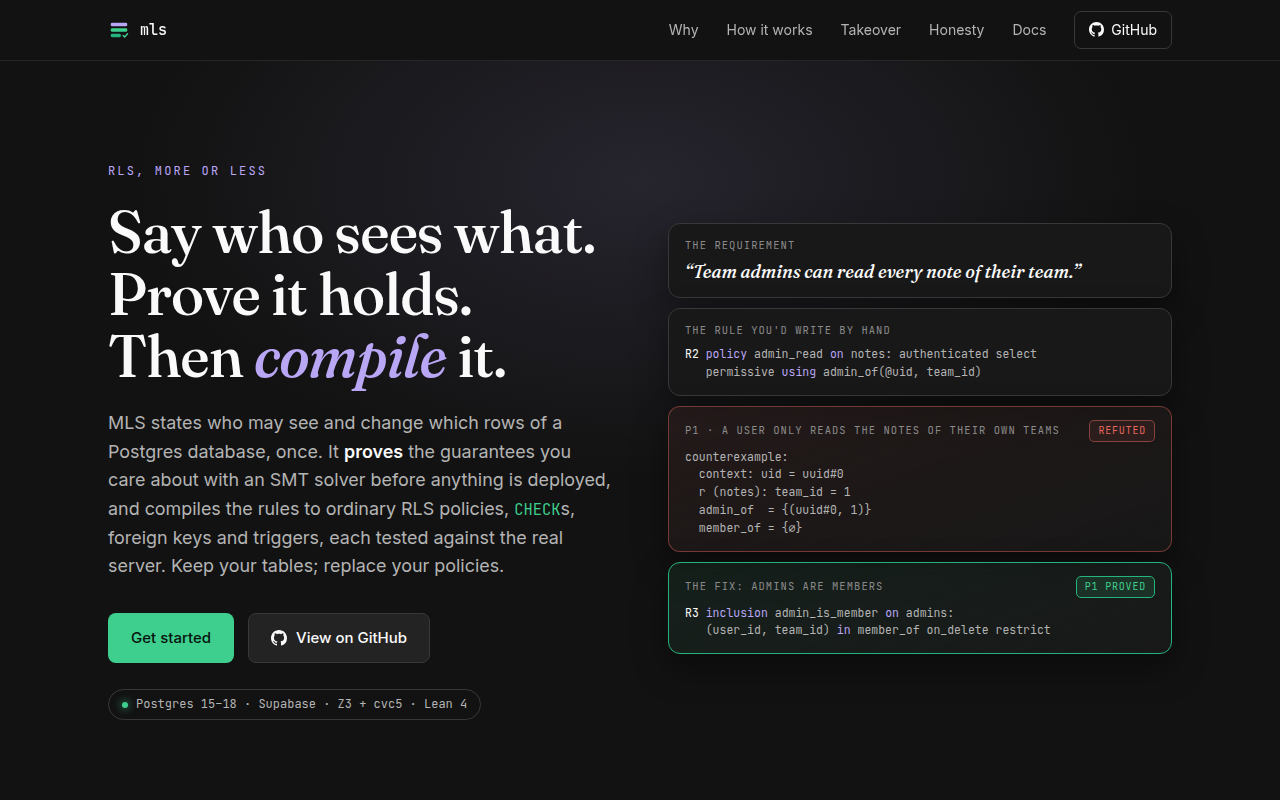
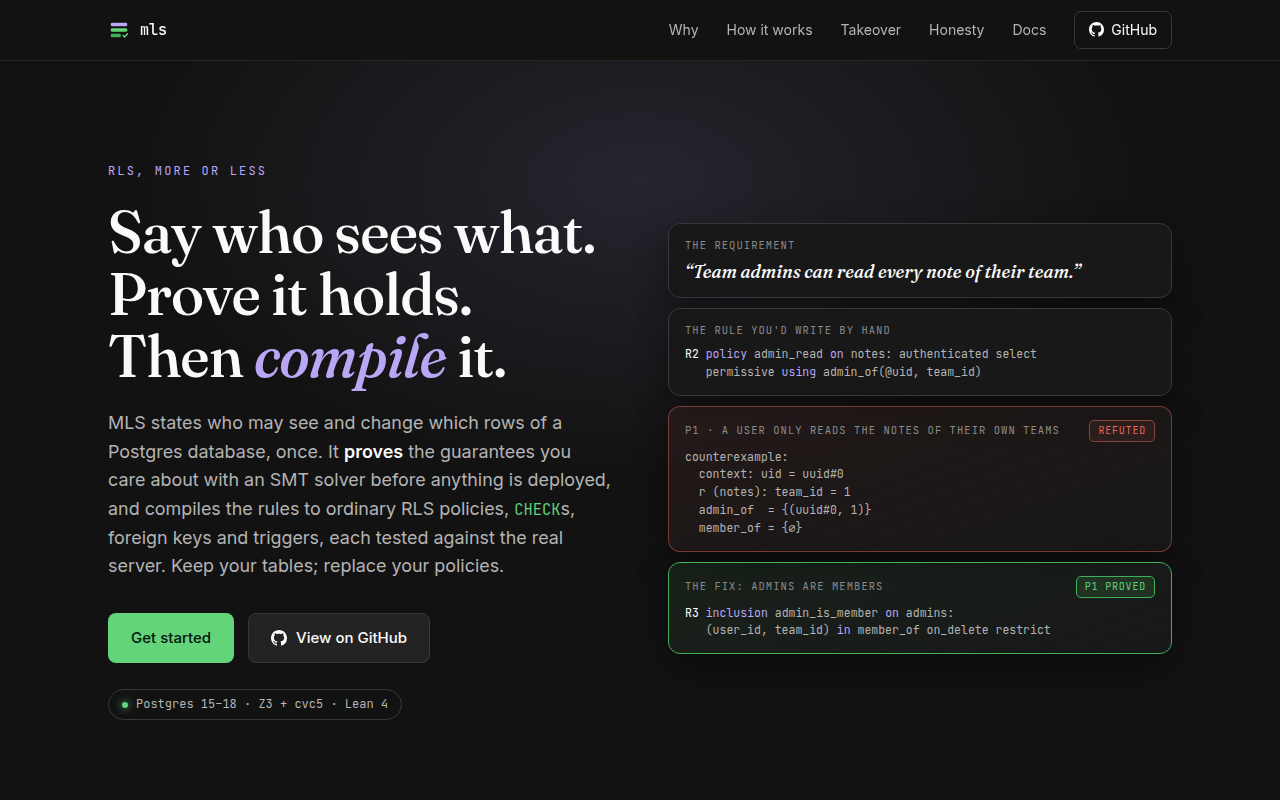
MLS is for PostgreSQL: no identity provider on the front pages
The README and the explainer no longer name Supabase.  The guide's tour, whose
spec both quote, runs on the session_setting adapter (`app.uid`), so the quoted
spec and compiled SQL are plain Postgres; `mls test` on it is clean on PG 15-18.
Supabase stays in GUIDE §3 (the starter takeover), §9 (now listing the generic
adapters first), the reference and tests/platform, which drops team_notes.

The English rendering asks the adapter which context value is the user
(`user_context_name`), so session_setting specs say "the current user's
member_of" rather than "the user's uid's member_of".

The explainer's green is its own (#63D47A), not Supabase's brand colour; the
README screenshot is retaken.  DECISIONS records the rule.

diff --git a/index.html b/index.html
@@ -12,14 +12,14 @@
     *, *::before, *::after { margin: 0; padding: 0; box-sizing: border-box; }
 
     :root {
-      /* Supabase dark family + official green (the PROVED colour); lilac is this project's own accent. */
+      /* Dark greys, MLS's green (the PROVED colour) and lilac accent. */
       --bg: #121212;
       --bg-surface: #181818;
       --bg-raised: #1E1E1E;
       --bg-control: #232323;
-      --green: #3ECF8E;
-      --green-dark: #24B47E;
-      --green-glow: rgba(62, 207, 142, 0.13);
+      --green: #63D47A;
+      --green-dark: #3FAF59;
+      --green-glow: rgba(99, 212, 122, 0.13);
       --lilac: #B9A6F5;          /* MLS's accent */
       --lilac-dim: #9884DE;
       --lilac-glow: rgba(185, 166, 245, 0.12);
@@ -128,7 +128,7 @@
     .slip pre .kw { color: var(--lilac); }
     .slip pre .id { color: var(--fg); }
     .slip.ce { border-color: rgba(229,103,93,0.45); background: linear-gradient(160deg, rgba(229,103,93,0.08), var(--bg-surface)); }
-    .slip.fix { border-color: var(--green-dark); background: linear-gradient(160deg, rgba(62,207,142,0.08), var(--bg-surface)); }
+    .slip.fix { border-color: var(--green-dark); background: linear-gradient(160deg, rgba(99,212,122,0.08), var(--bg-surface)); }
     .verdict { font-family: var(--font-mono); font-size: 10px; letter-spacing: 0.08em; padding: 2px 8px; border-radius: 5px; text-transform: uppercase; }
     .verdict.no { color: var(--red); border: 1px solid rgba(229,103,93,0.5); background: rgba(229,103,93,0.08); }
     .verdict.yes { color: var(--green); border: 1px solid var(--green-dark); background: var(--green-glow); }
@@ -193,7 +193,7 @@
     .prow .t { font-family: var(--font-mono); font-size: 11px; color: var(--fg-dim); text-align: right; }
     .track { position: relative; height: 14px; border-radius: 5px; background: var(--bg-control); overflow: hidden; }
     .track i { position: absolute; inset: 0; transform-origin: left; transform: scaleX(calc(var(--p) * var(--w))); }
-    .track.good i { background: linear-gradient(90deg, rgba(62,207,142,0.45), rgba(62,207,142,0.85)); }
+    .track.good i { background: linear-gradient(90deg, rgba(99,212,122,0.45), rgba(99,212,122,0.85)); }
     .track.slow i { background: linear-gradient(90deg, rgba(229,103,93,0.45), rgba(229,103,93,0.85)); }
     .prow.mine .lbl b { color: var(--green); }
     @media (max-width: 520px) { .prow { grid-template-columns: 1fr 56px; } .prow .track { grid-column: 1 / -1; grid-row: 2; } }
@@ -311,7 +311,7 @@
             View on GitHub
           </a>
         </div>
-        <div style="margin-top:26px"><span class="pill"><span class="dot"></span>Postgres 15–18 · Supabase · Z3 + cvc5 · Lean 4</span></div>
+        <div style="margin-top:26px"><span class="pill"><span class="dot"></span>Postgres 15–18 · Z3 + cvc5 · Lean 4</span></div>
       </div>
 
       <div class="stack" id="stack" aria-label="A requirement, the rule written for it, the counterexample the prover finds, and the fix that makes the guarantee hold">
@@ -394,7 +394,7 @@ check (not archived = 1) -- let in</pre>
           </div>
           <figure class="fig" aria-hidden="true">
             <div class="dg">
-              <div class="term"><span class="kw">identity</span> supabase { uid: auth.uid uuid }
+              <div class="term"><span class="kw">identity</span> session_setting { uid: app.uid uuid }
 <span class="kw">relation</span> member_of = members(user_id, team_id)
 <span class="kw">relation</span> admin_of  = admins(user_id, team_id)
 
@@ -495,7 +495,7 @@ check (not archived = 1) -- let in</pre>
   as permissive for select to "authenticated"
   using (("team_id" = any (array(
     select "team_id" from "members"
-    where "user_id" = (select auth.uid())))));  <span class="cm">-- R1</span></div>
+    where "user_id" = (select nullif(current_setting('app.uid', true), '')::uuid)))));  <span class="cm">-- R1</span></div>
               <div class="perf" id="perf">
                 <div class="prow mine"><span class="lbl"><b>= any(array(select ..))</b><br>what MLS emits</span><span class="track good"><i style="--w:0.07"></i></span><span class="t">0.23 ms</span></div>
                 <div class="prow"><span class="lbl"><b>in (select ..)</b></span><span class="track slow"><i style="--w:0.57"></i></span><span class="t">71 ms</span></div>
@@ -512,7 +512,7 @@ check (not archived = 1) -- let in</pre>
           <div class="beat-copy">
             <span class="move"><span class="move-n">6</span> Test against the real thing &middot; <code>mls test</code></span>
             <h3>The proofs are about the model. The tests tie the model to <em>Postgres</em>.</h3>
-            <p>Every compiler template has a differential test: generated databases and statements, run through MLS's own evaluator and through the compiled objects on Postgres 15, 16, 17 and 18, which must agree row for row. The Supabase examples run again on Supabase's own image, deployed as its non-superuser <code>postgres</code> role.</p>
+            <p>Every compiler template has a differential test: generated databases and statements, run through MLS's own evaluator and through the compiled objects on Postgres 15, 16, 17 and 18, which must agree row for row. Examples also deploy and pass as a role that is not a superuser, the way managed Postgres services run them.</p>
             <p>And every template has a mutation: a deliberately wrong version the differential test must catch. A test that still passes against a broken template isn't testing anything, so it fails the build.</p>
           </div>
           <figure class="fig" aria-hidden="true">
@@ -522,7 +522,7 @@ check (not archived = 1) -- let in</pre>
                 <div class="cell">16<small>postgres</small></div>
                 <div class="cell">17<small>postgres</small></div>
                 <div class="cell">18<small>postgres</small></div>
-                <div class="cell">supabase<small>non-superuser</small></div>
+                <div class="cell">hosted<small>non-superuser</small></div>
               </div>
               <div class="mut"><span class="x">✕</span> IN_DROP_LAST · REPLACE_KEEPS_FOREIGN · HOP_VISIBILITY_DROPPED · …</div>
               <div class="fig-cap">19 template mutations, each caught by the differential test · proofs cross-checked with cvc5 · core semantics formalized in Lean 4</div>
@@ -562,7 +562,7 @@ check (not archived = 1) -- let in</pre>
       <div class="section-head reveal">
         <span class="eyebrow">The common case</span>
         <h2 class="display">Keep your tables. Replace your policies.</h2>
-        <p>Most projects already have a database: tables and data that stay where they are, and policies written by hand and never proved. The takeover keeps the schema and lets MLS own the policies. The <a href="https://github.com/neptunestation-com/more_ls/blob/main/docs/GUIDE.md#3-taking-over-the-schema-you-have">user guide</a> walks through it with every command with what it prints, and the test suite replays it on Supabase's own image.</p>
+        <p>Most projects already have a database: tables and data that stay where they are, and policies written by hand and never proved. The takeover keeps the schema and lets MLS own the policies. The <a href="https://github.com/neptunestation-com/more_ls/blob/main/docs/GUIDE.md#3-taking-over-the-schema-you-have">user guide</a> walks through it with every command with what it prints, and the test suite replays it.</p>
       </div>
       <div class="acts reveal">
         <div class="act">
@@ -631,7 +631,7 @@ teams: <span class="ok">proved</span> (P7)</pre>
         </div>
         <div class="truth reveal">
           <div class="mk"><svg viewBox="0 0 20 20"><circle cx="9" cy="9" r="5.5"/><path d="M13 13l4 4"/></svg></div>
-          <div><h3>Trusted roles, and the ways around</h3><p>Superusers and <code>BYPASSRLS</code> roles (Supabase's <code>service_role</code>) bypass everything, and every report says so. Non-invoker views and <code>SECURITY DEFINER</code> functions over a governed table are reported as bypass paths, never rewritten: they're your objects.</p></div>
+          <div><h3>Trusted roles, and the ways around</h3><p>Superusers and <code>BYPASSRLS</code> roles bypass everything, and every report says so. Non-invoker views and <code>SECURITY DEFINER</code> functions over a governed table are reported as bypass paths, never rewritten: they're your objects.</p></div>
         </div>
         <div class="truth reveal">
           <div class="mk"><svg viewBox="0 0 20 20"><path d="M3 14l4-5 3 3 4-6 3 4"/><path d="M3 17h14"/></svg></div>
@@ -662,7 +662,7 @@ teams: <span class="ok">proved</span> (P7)</pre>
             <span class="lbl">Copy</span>
           </button>
         </div>
-        <p class="cta-note">Already running Supabase or Postgres in production? Start with <a href="https://github.com/neptunestation-com/more_ls/blob/main/docs/GUIDE.md#3-taking-over-the-schema-you-have">taking over the schema you have</a>. New schema? The guide's ten-minute tour builds a spec one requirement at a time.</p>
+        <p class="cta-note">Already running Postgres in production? Start with <a href="https://github.com/neptunestation-com/more_ls/blob/main/docs/GUIDE.md#3-taking-over-the-schema-you-have">taking over the schema you have</a>. New schema? The guide's ten-minute tour builds a spec one requirement at a time.</p>
         <div class="cta-actions">
           <a class="btn btn-primary" href="https://github.com/neptunestation-com/more_ls/blob/main/docs/GUIDE.md" target="_blank" rel="noopener">Read the guide</a>
           <a class="btn btn-ghost" href="https://github.com/neptunestation-com/more_ls/blob/main/docs/REFERENCE.md" target="_blank" rel="noopener">Reference</a>
@@ -678,7 +678,7 @@ teams: <span class="ok">proved</span> (P7)</pre>
         <p>Row-level security, more or less, proved.<br><a href="https://github.com/neptunestation-com/more_ls">GitHub</a> · <a href="https://github.com/neptunestation-com/more_ls/blob/main/docs/GUIDE.md">Guide</a> · <a href="https://github.com/neptunestation-com/more_ls/blob/main/docs/REFERENCE.md">Reference</a></p>
       </div>
       <div class="foot-right">
-        <p>Works with Supabase's <code style="color:var(--fg-dim)">auth.uid()</code> and is tested on Supabase's own Postgres image. A community project, not an official Supabase product.</p>
+        <p>Plain PostgreSQL: the current user comes from a session setting, a database role or an identity provider's auth function.</p>
       </div>
     </div>
   </footer>

diff --git a/src/mls/english.py b/src/mls/english.py
@@ -21,14 +21,16 @@ OPS = {"=": "is", "<>": "is not", "<": "is less than", "<=": "is at most", ">": 
        ">=": "is at least"}
 VERB = {"select": "read", "insert": "insert", "update": "update", "delete": "delete", "all": "read and change"}
 VERB_PAST = {"select": "read", "insert": "inserted", "update": "updated", "delete": "deleted"}
-USER_SOURCES = ("auth.uid", "current_user")
 
 
 def ctx_phrase(spec: Spec, name: str) -> str:
+    """The adapter says which context value is the user (on `session_setting`, the policies'
+    membership key); the others are the user's attributes."""
+    from mls.identity.base import get_adapter
+
     if name == CONTEXT_NOW:
         return "the current time"
-    cv = spec.identity.context.get(name)
-    if cv is not None and cv.source in USER_SOURCES:
+    if name in spec.identity.context and name == get_adapter(spec).user_context_name():
         return "the current user"
     return f"the user's {name}"
 

diff --git a/tests/platform/test_supabase.py b/tests/platform/test_supabase.py
@@ -16,7 +16,7 @@ from tests.conftest import ROOT
 
 pytestmark = [pytest.mark.pg, pytest.mark.supabase]
 
-EXAMPLES = ["team_notes", "tenant_docs", "org_tree", "team_tasks"]
+EXAMPLES = ["tenant_docs", "org_tree", "team_tasks"]
 
 
 @pytest.fixture(scope="module")

diff --git a/docs/GUIDE.md b/docs/GUIDE.md
@@ -484,7 +484,7 @@ assumptions the proofs carry, and the bypass paths.
 
 ## 4. Starting from nothing: a ten-minute tour
 
-This section builds a spec from nothing for a small team-notes app on Supabase, one requirement
+This section builds a spec from nothing for a small team-notes app, one requirement
 at a time: the tables are MLS's own (`owned`), so the spec declares them and the compiled script
 creates them.  You need no database: everything here runs on your machine in seconds.  Every output shown is
 what `mls` actually prints, trimmed only where marked.  The finished spec is
@@ -497,7 +497,7 @@ The requirement: *members of a team can read the team's notes.*  Save this as `n
 
     mls 0.1
 
-    identity supabase { uid: auth.uid uuid }
+    identity session_setting { uid: app.uid uuid }
     roles authenticated
 
     table members owned {
@@ -524,8 +524,9 @@ The requirement: *members of a team can read the team's notes.*  Save this as `n
       P1 tenant_isolation notes: team_id in member_of(@uid) for select description 'a user only reads the notes of their own teams'
     }
 
-Reading it from the top: the current user's id comes from Supabase's `auth.uid()` and is
-called `@uid`.  There are two tables.  `relation member_of` says that the `members` table, read
+Reading it from the top: the current user's id is the session setting `app.uid`, which your
+application sets on each connection, and is called `@uid` (section 9 has the other ways to say who
+the user is).  There are two tables.  `relation member_of` says that the `members` table, read
 as (user, team) pairs, is a membership relation, so `member_of(@uid, team_id)` means "the
 current user is a member of this row's team".  `R1` is a rule, the thing that gets enforced.
 `P1` is a property, the thing that gets *proved*: whatever the rules end up being, a user only
@@ -666,9 +667,9 @@ The fix is to say what NULL means:
 prints one SQL script.  The policies on `notes`:
 
     create policy "member_read" on "notes" as permissive for select to "authenticated"
-      using (("team_id" = any (array(select "team_id" from "members" where "user_id" = (select auth.uid())))));  -- R1
+      using (("team_id" = any (array(select "team_id" from "members" where "user_id" = (select nullif(current_setting('app.uid', true), '')::uuid)))));  -- R1
     create policy "admin_read" on "notes" as permissive for select to "authenticated"
-      using (("team_id" = any (array(select "team_id" from "admins" where "user_id" = (select auth.uid())))));  -- R2
+      using (("team_id" = any (array(select "team_id" from "admins" where "user_id" = (select nullif(current_setting('app.uid', true), '')::uuid)))));  -- R2
     create policy "hide_archived" on "notes" as restrictive for all to "authenticated"
       using ((("archived" is null) or ("archived" <> 1)))
       with check ((("archived" is null) or ("archived" <> 1)));  -- R4
@@ -1328,16 +1329,6 @@ A policy's context values (`@uid`, `@clearance`) come from an identity adapter. 
 decides how a name becomes SQL and what has to be true outside the database for the policy to
 mean anything.  Three adapters ship:
 
-**`supabase`.**  `auth.uid` is the user id (`(select auth.uid())`, type `uuid`) and
-`jwt.claims.<name>` is a JWT claim (`(select (auth.jwt() ->> 'name')::type)`).  The trust
-assumption, stated in every proof report, is that clients reach the database only through
-Supabase's API layer, which verifies the JWT.  A direct connection as `authenticated` with a
-forged claim is outside the model.
-
-**`pg_roles`.**  `current_user` is the identity (type `text`).  No external assumption: Postgres
-authenticated the session.  Use this when every user is a database role, or when a connection
-pooler sets the role per request with `SET ROLE`.
-
 **`session_setting`.**  `app.<name>` is a session setting read with
 `current_setting('app.<name>', true)` and cast to the declared type.  A setting that is
 absent or empty is NULL, so every comparison with it is UNKNOWN and the row is denied: no
@@ -1347,7 +1338,18 @@ on `app.*`; the setting is established by a trusted path (a pooler, a `SET LOCAL
 DEFINER` entry point, or the application's connection layer) that no untrusted client reaches.
 `mls drift` checks the two ways that path leaks into the database: an app role that may execute
 a function whose body sets `app.*`, and an `ALTER ROLE ... SET app.*` default on an app role.
-`examples/session_docs.mls.json` is the document store on this adapter.
+The tour's spec (`examples/team_notes.mls`) and the document store
+(`examples/session_docs.mls.json`) use this adapter.
+
+**`pg_roles`.**  `current_user` is the identity (type `text`).  No external assumption: Postgres
+authenticated the session.  Use this when every user is a database role, or when a connection
+pooler sets the role per request with `SET ROLE`.
+
+**`supabase`.**  `auth.uid` is the user id (`(select auth.uid())`, type `uuid`) and
+`jwt.claims.<name>` is a JWT claim (`(select (auth.jwt() ->> 'name')::type)`).  The trust
+assumption, stated in every proof report, is that clients reach the database only through
+Supabase's API layer, which verifies the JWT.  A direct connection as `authenticated` with a
+forged claim is outside the model.
 
 `now` is a built-in context value in every adapter (the transaction start time), used by
 `now_between`.

diff --git a/README.md b/README.md
@@ -46,8 +46,8 @@ The language is **small on purpose**: membership, comparisons with the current u
 hierarchies with a declared depth, time windows and column rules, with no joins, arithmetic or
 functions in predicates. That is what keeps every proof decidable. Anything else goes in an explicit
 `opaque` block, and every proof that needs one is reported as conditional on it, by name. And the
-proofs are about the model: **trusted roles** (superusers, `BYPASSRLS`, Supabase's `service_role`)
-bypass everything, and views or `SECURITY DEFINER` functions that reach a table without its
+proofs are about the model: **trusted roles** (superusers and `BYPASSRLS` roles) bypass
+everything, and views or `SECURITY DEFINER` functions that reach a table without its
 policies are reported as bypass paths, never rewritten. Every proof report states its assumptions.
 
 ## Why it exists
@@ -90,7 +90,7 @@ requirement at a time and lets the prover catch two real mistakes along the way:
 ```
 mls 0.1
 
-identity supabase { uid: auth.uid uuid }
+identity session_setting { uid: app.uid uuid }
 roles authenticated
 
 table members owned { user_id uuid not null, team_id int not null; primary_key (user_id, team_id) }
@@ -126,8 +126,8 @@ a table is refuted, `generate` 1 when the result is not proved. Every command re
 
 ## Taking over an existing database
 
-The common case is a Supabase or plain Postgres project in production, with tables and data that
-stay where they are and policies that were written by hand and never proved. The takeover keeps
+The common case is a Postgres database in production, with tables and data that stay where
+they are and policies that were written by hand and never proved. The takeover keeps
 the schema and lets MLS own the policies, and an LLM does the writing: you state the
 requirements and approve what it proved.
 
@@ -146,8 +146,8 @@ uv run mls status spec.mls --dsn "$DATABASE_URL"                               #
 
 The import's notes quote every policy the deploy will drop, the tables with row-level security off
 today, and the bypass paths, each with its fix. [GUIDE §3](docs/GUIDE.md#3-taking-over-the-schema-you-have)
-walks through it step by step, every command with what it prints, on Supabase's team-and-projects
-starter; the test suite replays it on Supabase's own image.
+walks through it step by step on a team-and-projects starter schema, every command with what it
+prints, and the test suite replays it.
 
 ## Writing specs with an LLM
 
@@ -188,7 +188,7 @@ For contributors, `docs/design/` holds why MLS is the way it is:
 
 ```bash
 uv run pytest -m "not pg"                 # spec, logic, proofs, CLI, no Postgres (seconds)
-uv run pytest -m pg                       # differential, mutation, migration, lock, drift; PG 15-18 + Supabase (Docker)
+uv run pytest -m pg                       # differential, mutation, migration, lock, drift; PG 15-18 (Docker)
 uv run pytest -m slow                     # EXPLAIN checks at 1M rows
 uv run pytest -m cvc5                     # cross-check the proofs with a second solver
 MLS_PG_VERSIONS=16 uv run pytest -m pg    # one version
@@ -196,8 +196,8 @@ MLS_PG_DSN=postgresql://postgres:pw@host:port/postgres uv run pytest -m pg   # a
 ```
 
 Every compiler template has a differential test against Postgres 15, 16, 17 and 18, and a mutation
-(a deliberately wrong version of the template) that the differential test must catch. The Supabase
-examples run again on the `supabase/postgres` image as its non-superuser `postgres` role.
+(a deliberately wrong version of the template) that the differential test must catch. Examples also
+deploy and pass as a role that is not a superuser, the way managed Postgres services run them.
 
 `lean/` formalizes the core semantics in Lean 4 and proves, among other things, that the pair
 encoding is sound against SQL's meaning of every construct of the fragment, that `IS TRUE` makes

diff --git a/docs/design/DECISIONS.md b/docs/design/DECISIONS.md
@@ -979,3 +979,14 @@ but the rules pass would then be shown part of the properties pass's answer); le
 propose them (two names for one path, merged after the fact); and leaving the relation to the
 human (the hand-written line was the one step of the takeover an LLM-first user could not hand
 off).  Cost: one more model call per run, usually with an empty answer.
+
+Implementation defaults (2026-11-18).  MLS is for PostgreSQL; an identity provider is one
+adapter.  The README and the explainer page name no provider, and the guide's tour, whose spec
+(`examples/team_notes.mls`) both quote, runs on `session_setting`; the provider-specific material
+stays where a reader looks for it (GUIDE §3's takeover of the Supabase starter, §9, the
+reference, `tests/platform`).  The English rendering calls a context value "the current user"
+when the adapter names it as the user (`Adapter.user_context_name`: `auth.uid`, `current_user`,
+or on `session_setting` the policies' one membership key), not by a list of sources that left
+`session_setting` specs saying "the user's uid's member_of".  The explainer's green is its own,
+no longer a provider's brand colour.  Rejected: keeping the tour on `supabase` and removing only
+the prose mentions (the quoted code would still name the provider).

diff --git a/CLAUDE.md b/CLAUDE.md
@@ -121,7 +121,8 @@ union member the renderer does not cover.
   fixtures (`tests/templates/specs.py`) derive from the example specs; `test_specs.py` builds and
   checks every one without Docker, so an example edit that breaks a fixture fails in the fast
   suite, not only in the Postgres jobs.
-- The guide's tour (GUIDE §4) is replayed by `tests/test_guide.py` on `examples/team_notes.mls`:
+- The guide's tour (GUIDE §4) is replayed by `tests/test_guide.py` on `examples/team_notes.mls`
+  (adapter `session_setting`: the README and the explainer quote it and name no identity provider):
   every command it shows runs in its own process (in-process runs get other counterexamples)
   and must print the lines the guide shows. A change to report, lint, explain or compile output
   updates the tour in the same change.
